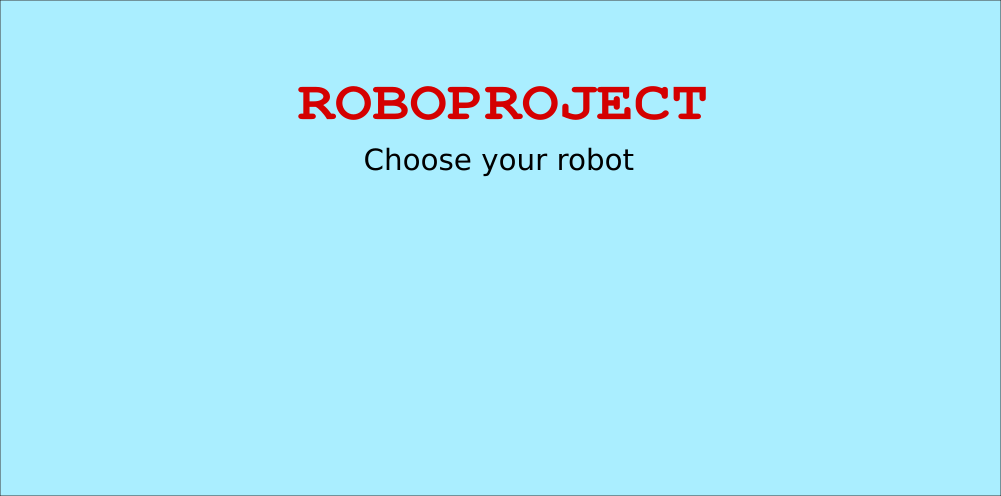
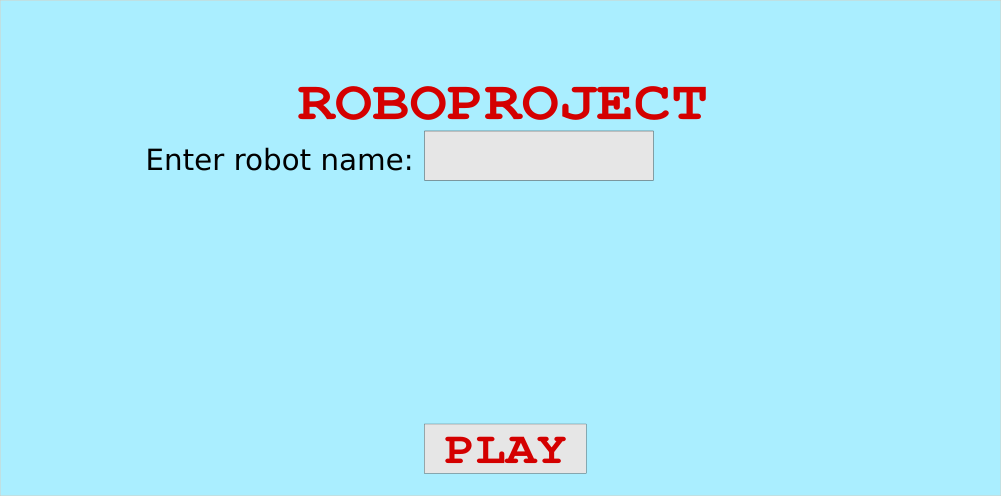
adjust welcome_board

Changed region(s): [[0.0, 0.0, 1.0, 1.0], [0.1239, 0.2419, 0.6503, 0.3629], [0.4026, 0.8468, 0.5884, 0.9677]]

diff --git a/welcome_board_frontend.py b/welcome_board_frontend.py
@@ -37,7 +37,7 @@ def create_window(on_draw, on_mouse_press):
     Return a pyglet window for graphic output.
     """
     window = pyglet.window.Window(WINDOW_WIDTH, WINDOW_HEIGHT, resizable=True)
-    window.push_handlers(on_draw=on_draw, on_mouse_press=on_mouse_press)
+    window.push_handlers(on_draw=on_draw, on_mouse_press=on_mouse_press, on_text=handle_text)
     return window
 
 
@@ -83,7 +83,7 @@ def handle_click(state, x, y, window, available_robots):
         window.width / WINDOW_WIDTH
     )
     x, y = (x / zoom, y / zoom)
-
+    print(x, y)
     for i, coordinate in enumerate(picture_coordinates):
         coord_x, coord_y = coordinate
         if (
@@ -94,3 +94,31 @@ def handle_click(state, x, y, window, available_robots):
             for available_robot in available_robots:
                 if robot_name == available_robot.name:
                     return robot_name
+
+    if (438 < x < 667) and (317 < y < 366):
+        own_name_label = get_label(
+            "Pokus",
+            x=500,
+            y=340,
+            font_size=20,
+            anchor_x="center",
+            color=(255, 0, 0, 255),
+        )
+        own_name_label.draw()
+        return own_name_label.text
+        print("OK")
+
+    if (436 < x < 593) and (23 < y < 71):
+        return {"chosen_robot": robot_name, "own_name": own_name_label.text}
+
+
+def handle_text(text):
+    own_name_label = get_label(
+        text,
+        x=500,
+        y=250,
+        font_size=20,
+        anchor_x="center",
+        color=(0, 0, 0, 255),
+    )
+    own_name_label.draw()
